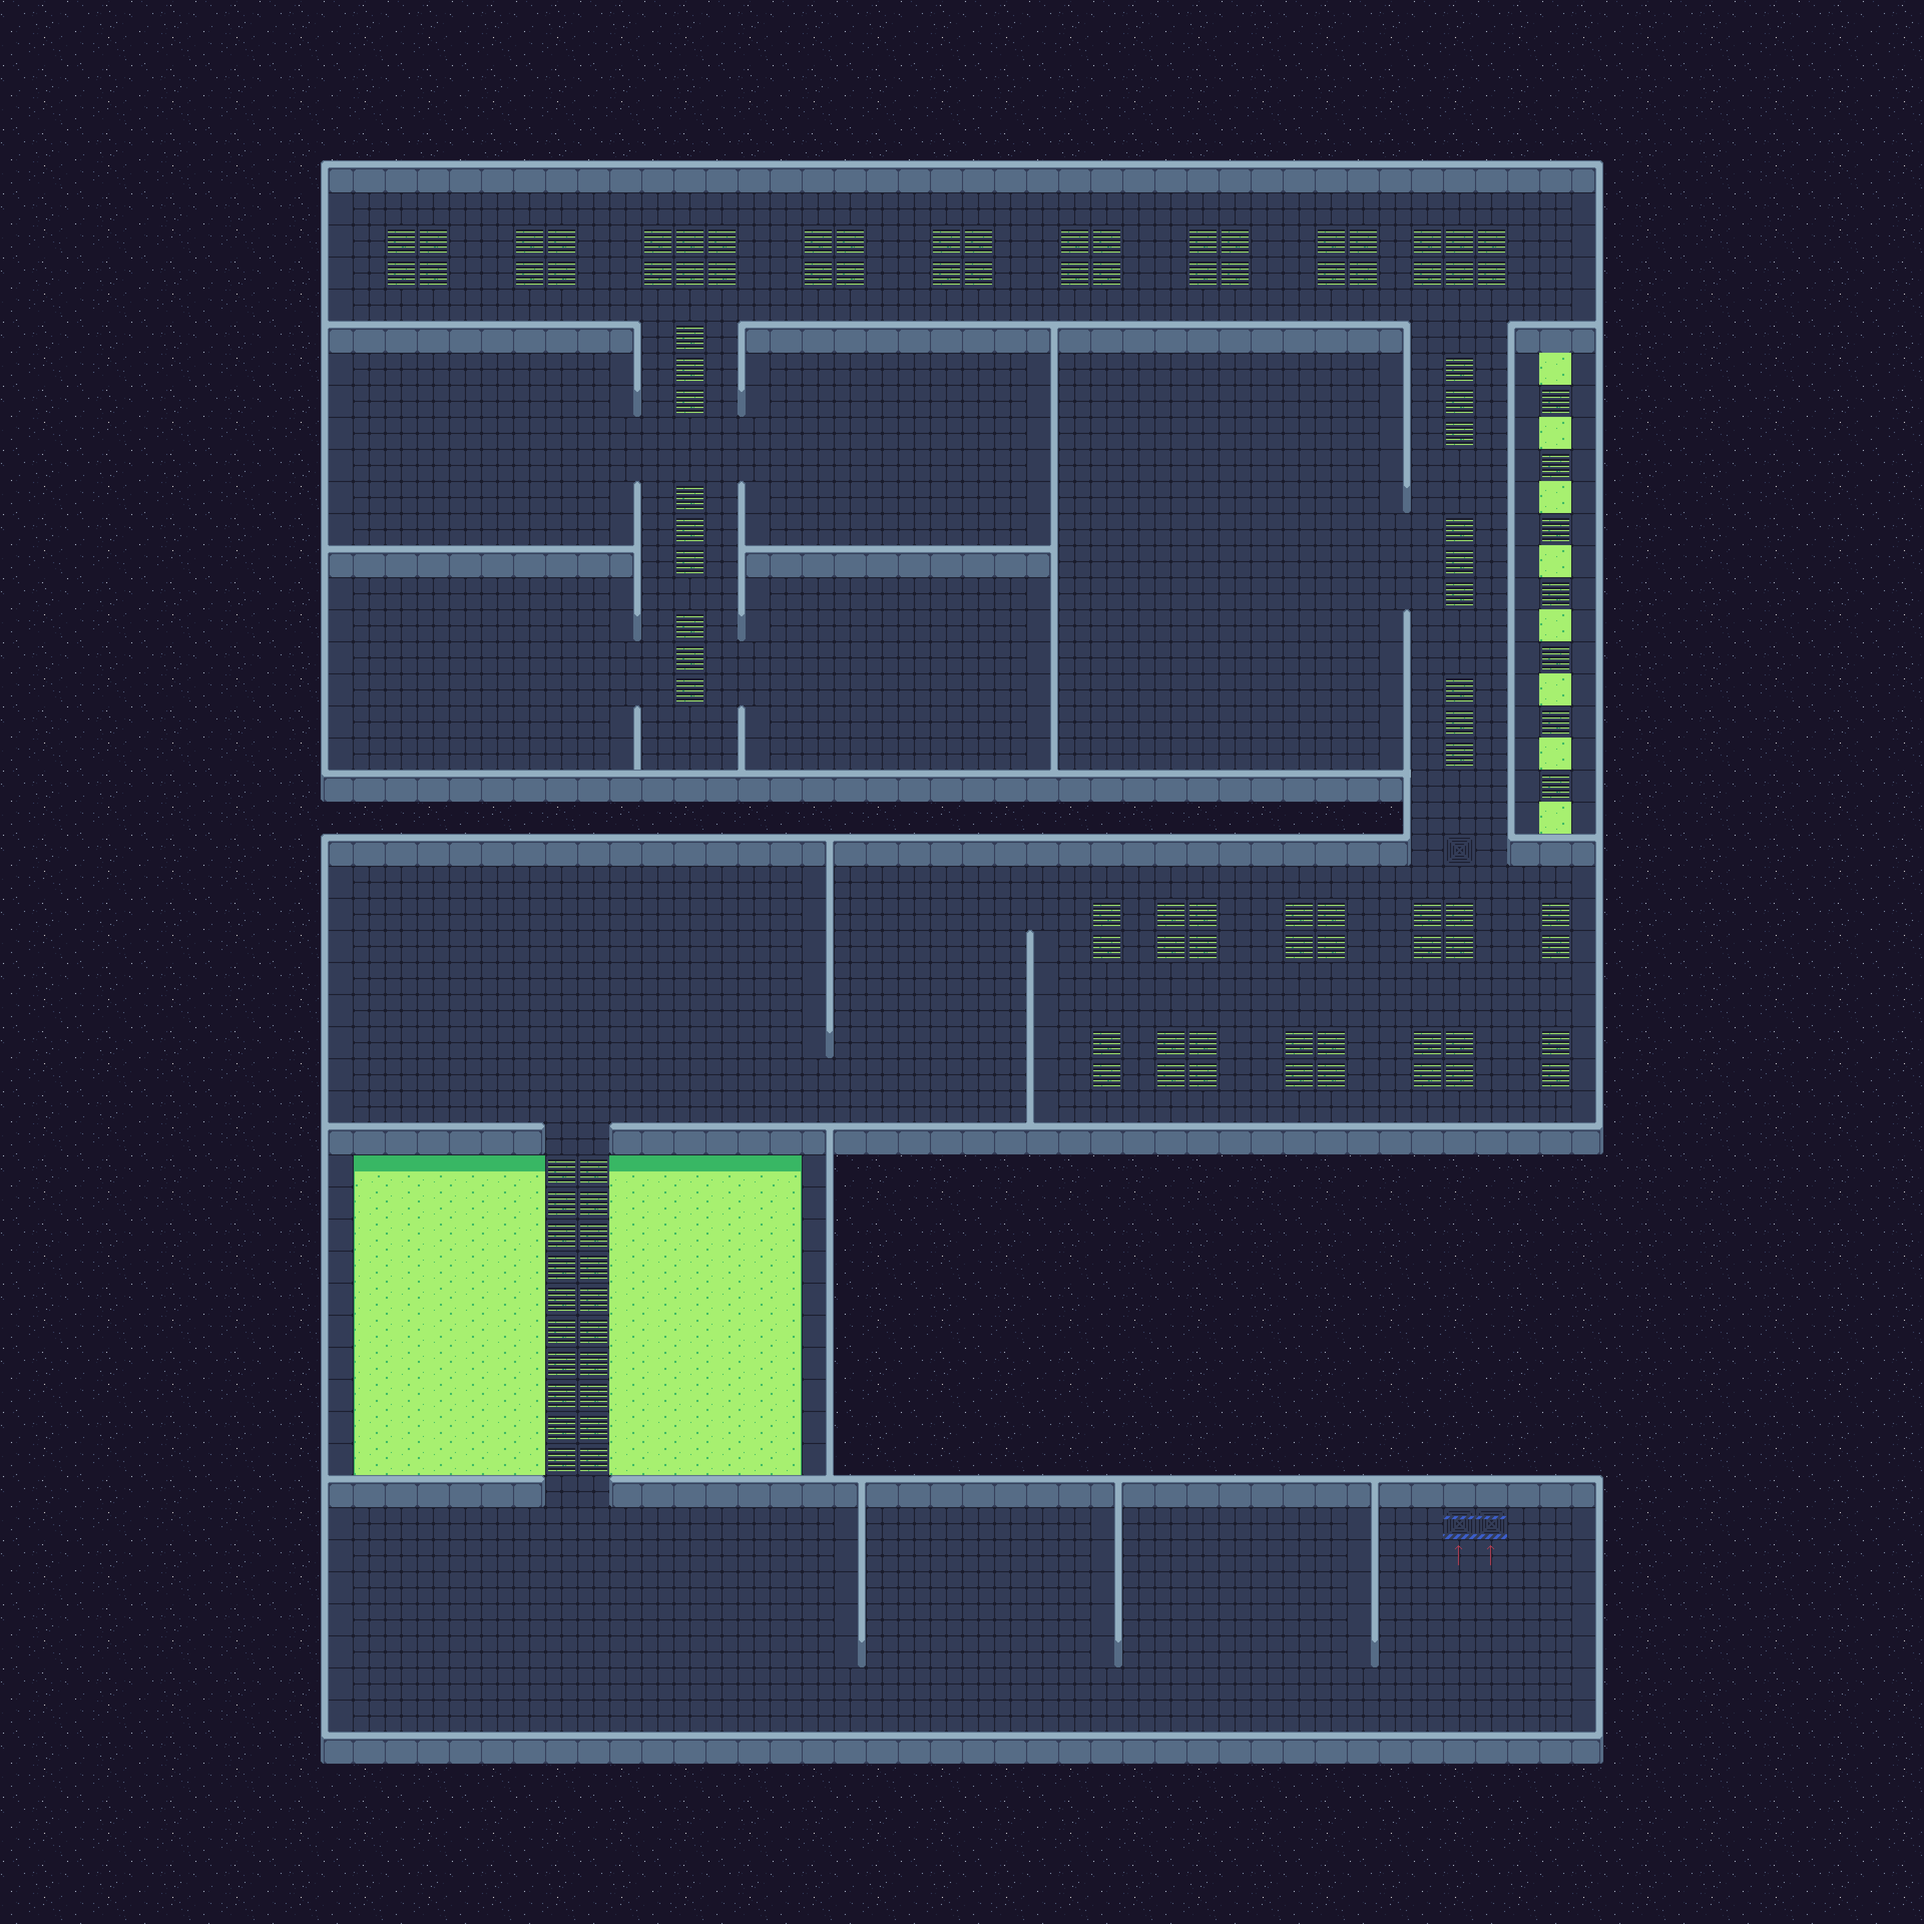
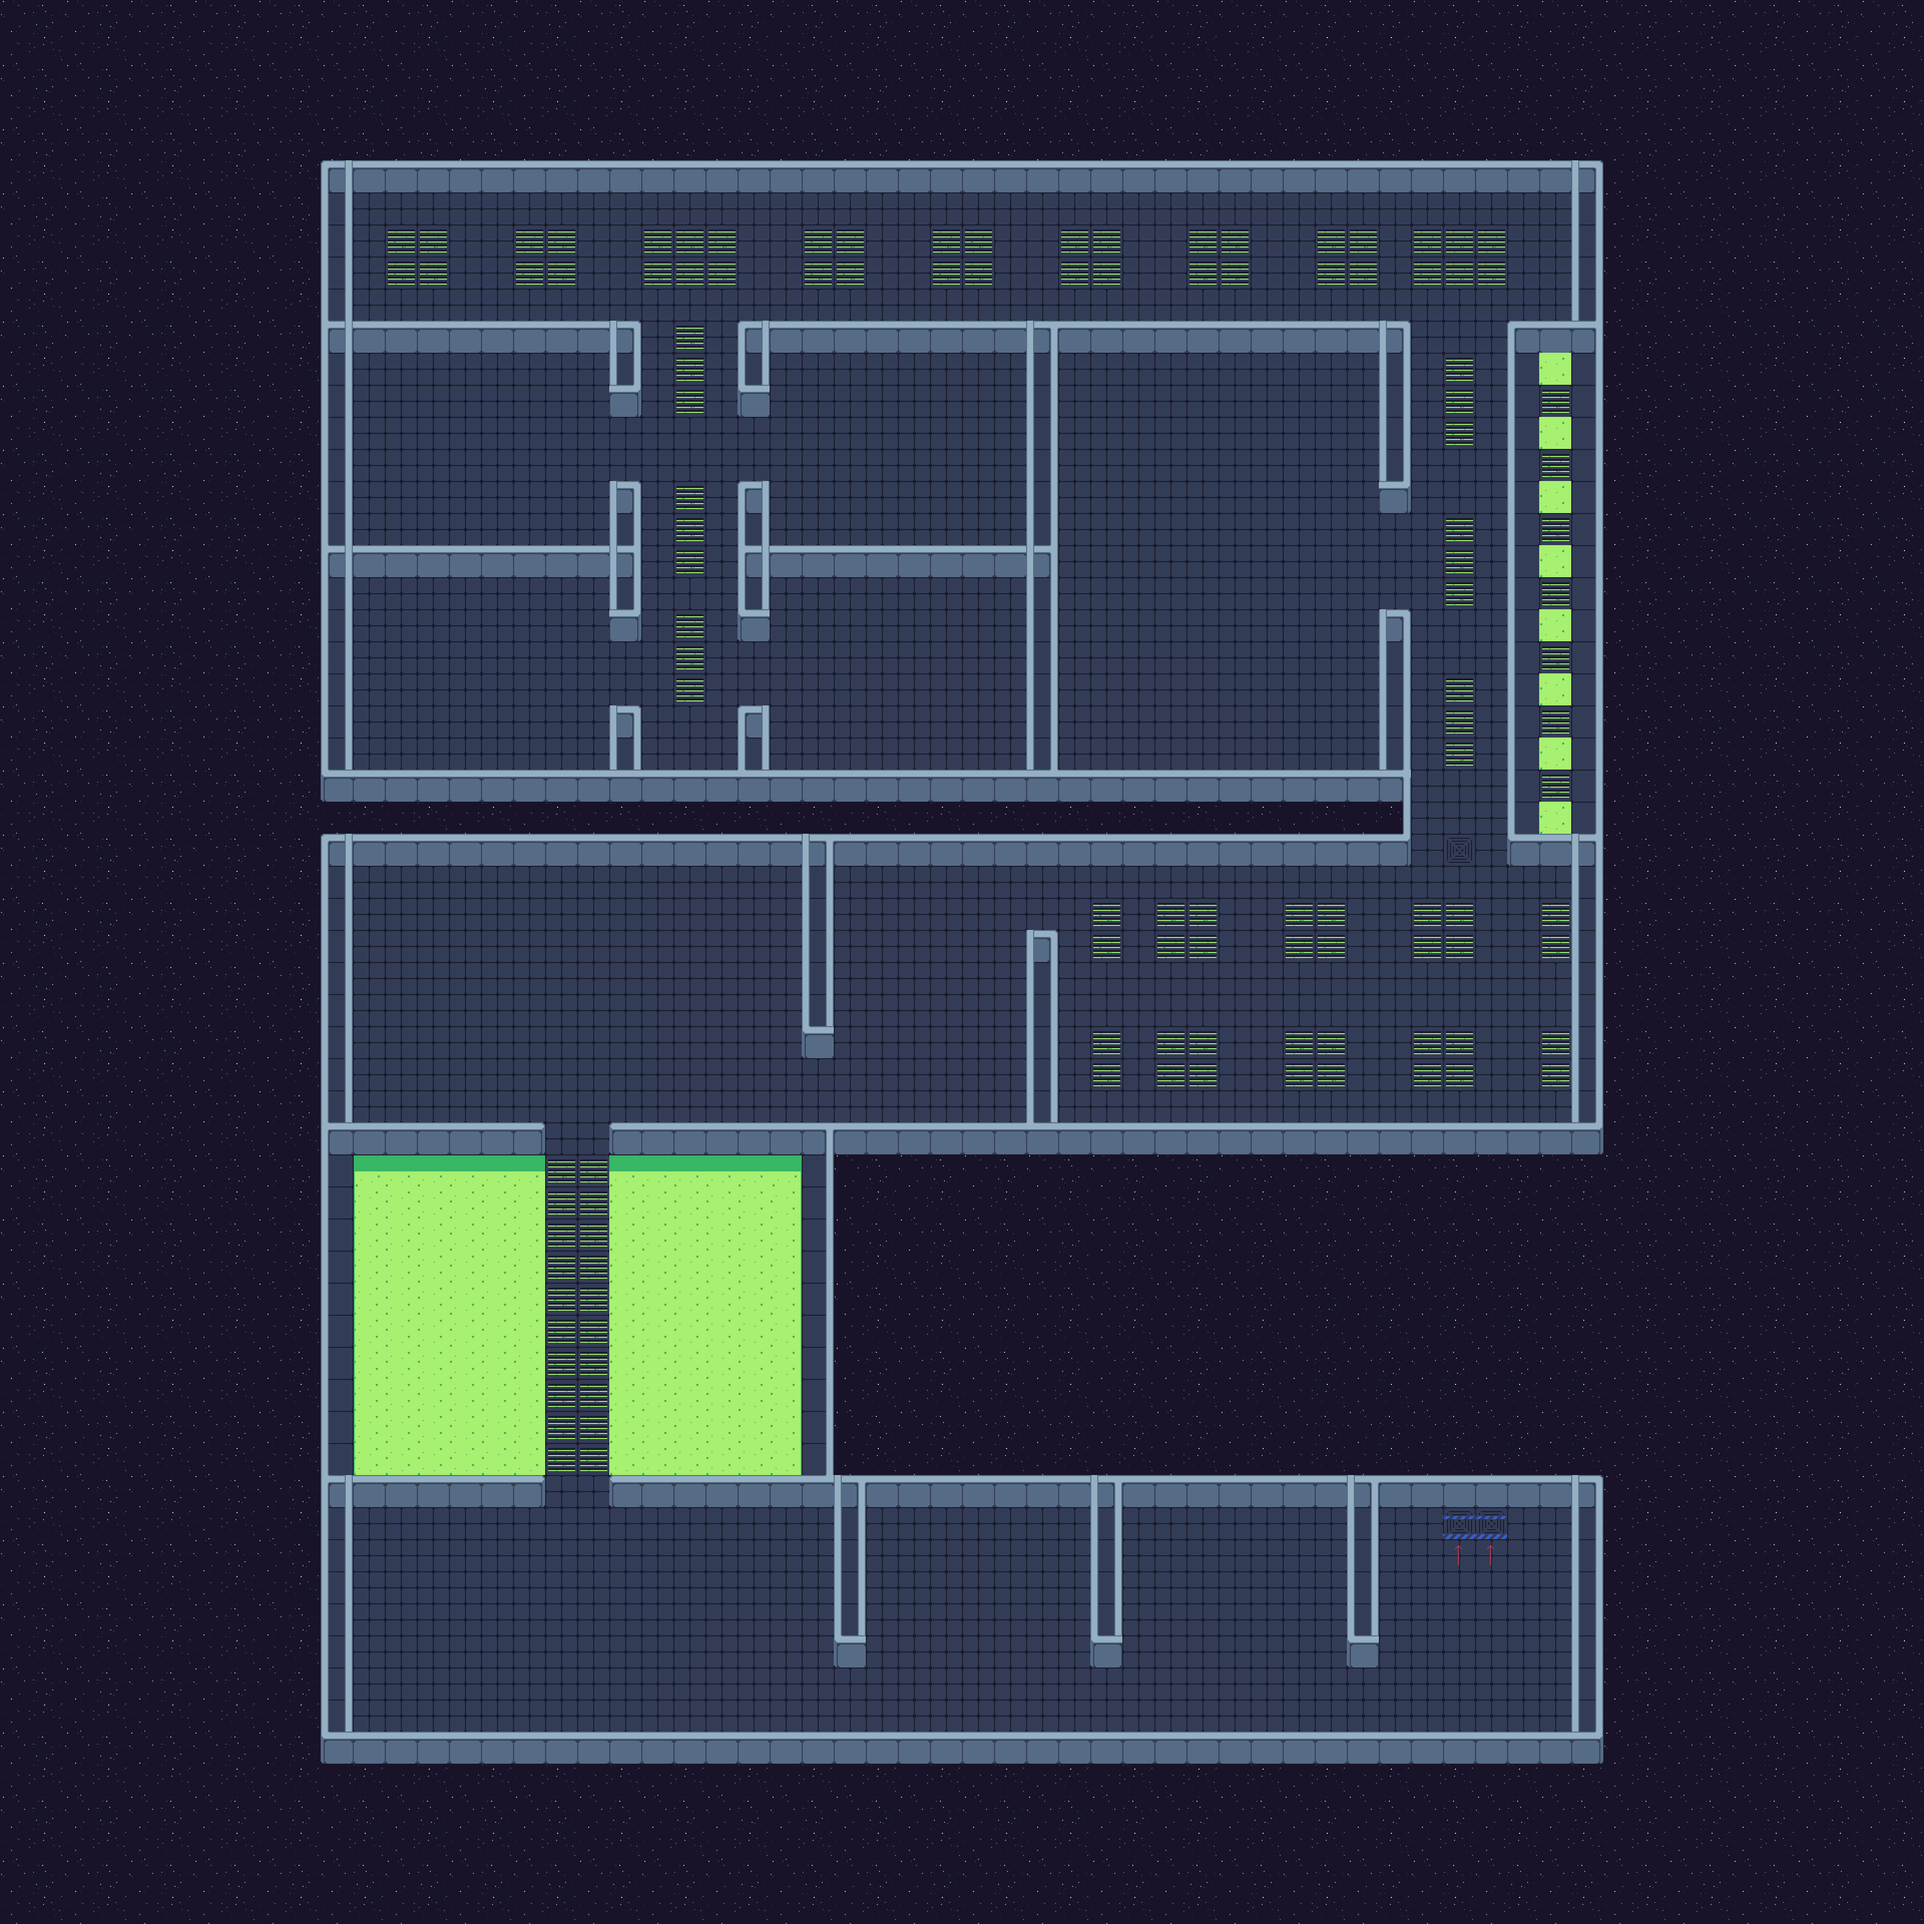
CW:shoot animation added (need fix on the left oriented sprite).

diff --git a/public/scripts/game/classes/player.js b/public/scripts/game/classes/player.js
@@ -26,7 +26,7 @@ export class Player {
         this.velocity_x              = 0;
         this.velocity_y              = 0;
         this.force_acceleration      = 5;
-        this.resistance_acceleration = 7;
+        this.resistance_acceleration = 5;
         this.max_velocity            = 20; // also in the other direction
 
     }
@@ -38,8 +38,21 @@ export class Player {
         this.y += this.velocity_y;
     }
 
+    // Start shoot animation
+    shoot = () => {
+        this.animation_state = 0;
+        this.state           = 'shoot';
+    }
+
+    // Increase animation step
     forward_animation = () => {
-        this.animation_state = this.animation_state > 6 ? 0: this.animation_state + 1;
+        if (this.state === "shoot" && this.animation_state > 2) {
+            this.state = "idle";
+        } else if (this.animation_state > 6) {
+            this.animation_state = 0;
+        } else  {
+            this.animation_state += 1;
+        }
     }
 
     // Adds gotten acceleration to player speed
@@ -65,7 +78,7 @@ export class Player {
         }
 
         // Player's sprite starts running
-        if (this.velocity_x != 0 || this.velocity_y != 0)
+        if ((this.velocity_x != 0 || this.velocity_y != 0) && this.state != "shoot")
             this.state = "run"
     }
 
@@ -97,7 +110,7 @@ export class Player {
         }
 
         // "Calm down" player's sprite
-        if (this.velocity_x === 0 && this.velocity_y === 0) 
+        if ((this.velocity_x === 0 && this.velocity_y === 0) && this.state != "shoot")
             this.state = "idle";
     }
 }

diff --git a/public/scripts/game/classes/controller.js b/public/scripts/game/classes/controller.js
@@ -42,8 +42,21 @@ export class Controller {
         entity.direction = "right"
     }
 
+    // Shoot
+    shoot = entity => {
+        entity.shoot()
+    }
+
     // Setting up keyboard event listeners
     setupKeyboardListener = game => {
+        // On mouse click
+        document.addEventListener("click", (e) => {
+            // Check if game is over
+            if (game.gameover || game.finished) return;
+
+            this.shoot(game.player)
+        })
+
         // On button click
         document.addEventListener("keydown", (e) => {
             // Check if game is over
@@ -51,6 +64,7 @@ export class Controller {
     
             // Code of the pressed key (common for upper- and lowercase)
             const keyCode = e.code;
+            console.log(keyCode)
 
             // Change key info
             if (this.controller_keys[keyCode])
@@ -94,6 +108,6 @@ export class Controller {
                 if (this.controller_keys[key].pressed) 
                     this.controller_keys[key].perform(game.player)
             })
-        }, 50)
+        }, 25)
     }
 }

diff --git a/public/scripts/game/classes/render.js b/public/scripts/game/classes/render.js
@@ -75,8 +75,9 @@ export class Render {
         // Define player animation
         let animation;
         switch (this.game.player.state) {
-            case "idle": animation = playerIdle; break;
-            case "run" : animation = playerRun; break;
+            case "idle":  animation = playerIdle; break;
+            case "run" :  animation = playerRun; break;
+            case "shoot": animation = playerShoot; break;
         }
 
 

diff --git a/public/assets/map/tileset_1.tsx b/public/assets/map/tileset_1.tsx
@@ -1,4 +1,4 @@
 <?xml version="1.0" encoding="UTF-8"?>
 <tileset version="1.9" tiledversion="1.9.2" name="tileset x1" tilewidth="32" tileheight="32" tilecount="851" columns="37">
- <image source="../tilesets/tileset x1.png" width="1184" height="736"/>
+ <image source="../tilesets/TechTiles.png" width="1184" height="736"/>
 </tileset>

diff --git a/public/scripts/game/classes/game.js b/public/scripts/game/classes/game.js
@@ -23,7 +23,7 @@ export class Game {
         this.finished = false;
 
         // Game loop update frequency (ms)
-        this.render_frequency = 100;
+        this.render_frequency = 50;
 
         // Game animation frequency (ms)
         this.animation_frequency = 300;
